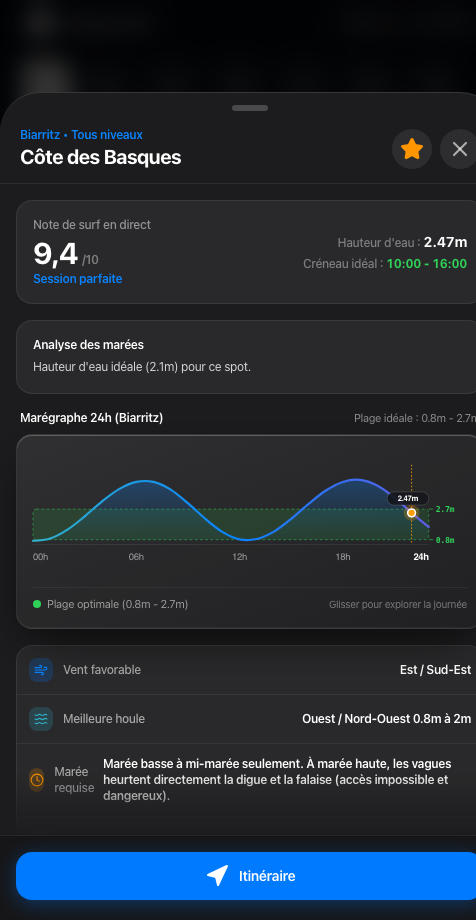
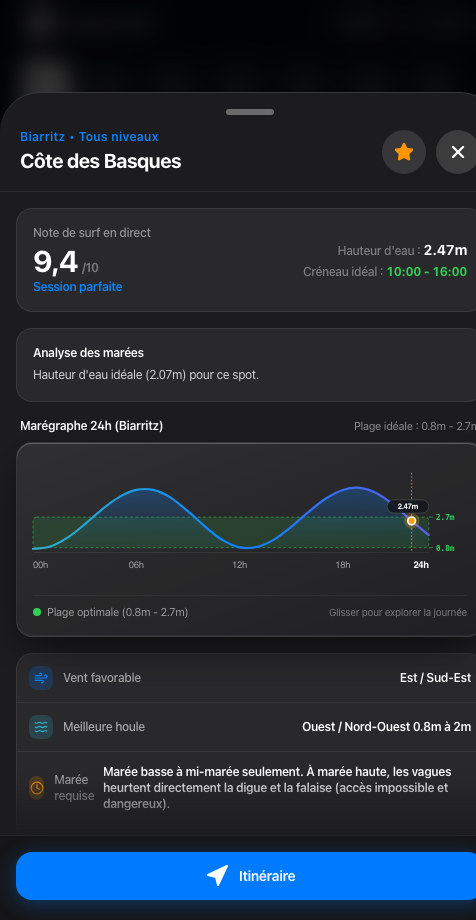
fix(modal): add iOS swipe-to-dismiss gesture, enlarge and reposition close button

diff --git a/src/components/SpotDetailModal.tsx b/src/components/SpotDetailModal.tsx
@@ -1,4 +1,4 @@
-import React, { useEffect, useState } from 'react';
+import React, { useEffect, useState, useRef } from 'react';
 import { Spot, SpotScore, TideData } from '../types/index';
 import { X, Star, AlertTriangle, Wind, Waves, Compass, Clock, Navigation } from 'lucide-react';
 import { openDirectMaps } from './GPSActionSheet';
@@ -23,6 +23,13 @@ export const SpotDetailModal: React.FC<SpotDetailModalProps> = ({
   onClose,
 }) => {
   const [scrubIndex, setScrubIndex] = useState<number | null>(null);
+  const [dragY, setDragY] = useState<number>(0);
+  const [isDragging, setIsDragging] = useState<boolean>(false);
+
+  const dragStartY = useRef<number>(0);
+  const currentDragY = useRef<number>(0);
+  const scrollContainerRef = useRef<HTMLDivElement>(null);
+  const touchStartY = useRef<number>(0);
 
   // Recul de la vue parente façon iOS 18
   useEffect(() => {
@@ -46,53 +53,138 @@ export const SpotDetailModal: React.FC<SpotDetailModalProps> = ({
   const activeHourIndex = scrubIndex !== null ? scrubIndex : (isToday ? Math.min(23, currentHour) : 12);
   const activeHourlyPoint = tide.hourlyCurve[activeHourIndex] || tide.hourlyCurve[0];
 
+  // Gestion du glissement vers le bas (Swipe-to-dismiss)
+  const handleDragStart = (clientY: number) => {
+    dragStartY.current = clientY;
+    currentDragY.current = 0;
+    setIsDragging(true);
+  };
+
+  const handleDragMove = (clientY: number) => {
+    if (!isDragging) return;
+    const deltaY = clientY - dragStartY.current;
+    if (deltaY > 0) {
+      currentDragY.current = deltaY;
+      setDragY(deltaY);
+    } else {
+      currentDragY.current = 0;
+      setDragY(0);
+    }
+  };
+
+  const handleDragEnd = () => {
+    if (!isDragging) return;
+    setIsDragging(false);
+    if (currentDragY.current > 75) {
+      onClose();
+    } else {
+      setDragY(0);
+    }
+    currentDragY.current = 0;
+  };
+
+  // Glissement depuis le haut du contenu défilable
+  const handleContentTouchStart = (e: React.TouchEvent) => {
+    touchStartY.current = e.touches[0].clientY;
+  };
+
+  const handleContentTouchMove = (e: React.TouchEvent) => {
+    const scrollEl = scrollContainerRef.current;
+    if (!scrollEl) return;
+    if (scrollEl.scrollTop <= 0) {
+      const deltaY = e.touches[0].clientY - touchStartY.current;
+      if (deltaY > 0) {
+        currentDragY.current = deltaY;
+        setDragY(deltaY);
+      }
+    }
+  };
+
+  const handleContentTouchEnd = () => {
+    if (currentDragY.current > 75) {
+      onClose();
+    } else {
+      setDragY(0);
+    }
+    currentDragY.current = 0;
+  };
 
   return (
     <div 
-      className="fixed inset-0 z-50 flex sm:items-center items-end justify-center bg-black/70 backdrop-blur-md p-0 sm:p-4"
+      className="fixed inset-0 z-50 flex sm:items-center items-end justify-center bg-black/70 backdrop-blur-md p-0 sm:p-4 transition-opacity duration-200"
       onClick={onClose}
     >
       <div 
-        className="w-full sm:max-w-lg bg-[#1c1c1e] border-t sm:border border-white/[0.12] rounded-t-[2.5rem] sm:rounded-3xl shadow-2xl max-h-[90vh] flex flex-col animate-slide-up overflow-hidden"
+        className="w-full sm:max-w-lg bg-[#1c1c1e] border-t sm:border border-white/[0.12] rounded-t-[2.5rem] sm:rounded-3xl shadow-2xl max-h-[90vh] flex flex-col animate-slide-up overflow-hidden transition-transform duration-200"
+        style={{
+          transform: dragY > 0 ? `translateY(${dragY}px)` : undefined,
+          transition: isDragging ? 'none' : 'transform 0.25s cubic-bezier(0.32, 0.72, 0, 1)'
+        }}
         onClick={(e) => e.stopPropagation()}
       >
-        {/* iOS Drag Indicator / Grabber */}
-        <div className="pt-3 pb-1">
-          <div className="w-9 h-1.5 rounded-full bg-white/20 mx-auto" />
+        {/* iOS Drag Indicator / Poignée de glissement tactile vers le bas */}
+        <div 
+          className="pt-4 pb-2.5 cursor-grab active:cursor-grabbing flex items-center justify-center select-none w-full touch-none"
+          onTouchStart={(e) => handleDragStart(e.touches[0].clientY)}
+          onTouchMove={(e) => handleDragMove(e.touches[0].clientY)}
+          onTouchEnd={handleDragEnd}
+          onMouseDown={(e) => handleDragStart(e.clientY)}
+          onMouseMove={(e) => handleDragMove(e.clientY)}
+          onMouseUp={handleDragEnd}
+          onClick={onClose}
+          title="Faire glisser vers le bas pour fermer"
+        >
+          <div className="w-12 h-1.5 rounded-full bg-white/35 hover:bg-white/60 transition-colors" />
         </div>
 
-        {/* Header Bar */}
-        <div className="px-5 py-3 border-b border-white/[0.08] flex items-center justify-between">
-          <div>
-            <div className="text-xs font-semibold text-[#0A84FF]">
+        {/* Header Bar avec Croix Apple agrandie et repositionnée */}
+        <div 
+          className="px-5 pt-1 pb-4 border-b border-white/[0.08] flex items-center justify-between select-none"
+          onTouchStart={(e) => {
+            if ((e.target as HTMLElement).closest('button')) return;
+            handleDragStart(e.touches[0].clientY);
+          }}
+          onTouchMove={(e) => handleDragMove(e.touches[0].clientY)}
+          onTouchEnd={handleDragEnd}
+        >
+          <div className="min-w-0 pr-3">
+            <div className="text-xs font-semibold text-[#0A84FF] tracking-wide mb-0.5">
               {spot.town} • {spot.level}
             </div>
-            <h2 className="text-xl sm:text-2xl font-bold text-white tracking-tight">
+            <h2 className="text-xl sm:text-2xl font-bold text-white tracking-tight truncate">
               {spot.name}
             </h2>
           </div>
 
-          <div className="flex items-center gap-2">
+          <div className="flex items-center gap-2.5 shrink-0">
+            {/* Bouton Favori */}
             <button
               onClick={() => onToggleFavorite(spot.id)}
-              className="w-10 h-10 flex items-center justify-center rounded-full bg-white/[0.08] hover:bg-white/[0.14] text-white/60 hover:text-[#FF9500] active:scale-90 transition"
-              aria-label="Favori"
+              className="w-11 h-11 flex items-center justify-center rounded-full bg-white/[0.12] hover:bg-white/[0.18] active:bg-white/[0.25] text-white/70 hover:text-[#FF9500] active:scale-90 transition shadow-sm"
+              aria-label={isFavorite ? 'Retirer des favoris' : 'Ajouter aux favoris'}
             >
-              <Star className={`w-4.5 h-4.5 stroke-[2] ${isFavorite ? 'fill-[#FF9500] text-[#FF9500]' : ''}`} />
+              <Star className={`w-5 h-5 stroke-[2] ${isFavorite ? 'fill-[#FF9500] text-[#FF9500]' : ''}`} />
             </button>
 
+            {/* Bouton Fermer (Croix Apple 44x44px distincte et bien visible) */}
             <button
               onClick={onClose}
-              className="w-10 h-10 flex items-center justify-center rounded-full bg-white/[0.08] hover:bg-white/[0.14] text-white/60 hover:text-white active:scale-90 transition"
-              aria-label="Fermer"
+              className="w-11 h-11 flex items-center justify-center rounded-full bg-white/[0.14] hover:bg-white/[0.22] active:bg-white/[0.30] text-white active:scale-90 transition shadow-sm"
+              aria-label="Fermer la fiche du spot"
             >
-              <X className="w-4.5 h-4.5 stroke-[2.2]" />
+              <X className="w-5 h-5 stroke-[2.8]" />
             </button>
           </div>
         </div>
 
-        {/* Scrollable Content avec masque de sécurité façon iOS */}
-        <div className="p-4 sm:p-5 space-y-4 overflow-y-auto overscroll-contain text-xs sheet-scroll">
+        {/* Scrollable Content avec détection de swipe-down au sommet */}
+        <div 
+          ref={scrollContainerRef}
+          onTouchStart={handleContentTouchStart}
+          onTouchMove={handleContentTouchMove}
+          onTouchEnd={handleContentTouchEnd}
+          className="p-4 sm:p-5 space-y-4 overflow-y-auto overscroll-contain text-xs sheet-scroll"
+        >
           
           {/* Main Score Hero Card */}
           <div className="p-4 rounded-2xl bg-white/[0.06] border border-white/[0.08] flex items-center justify-between gap-4">
